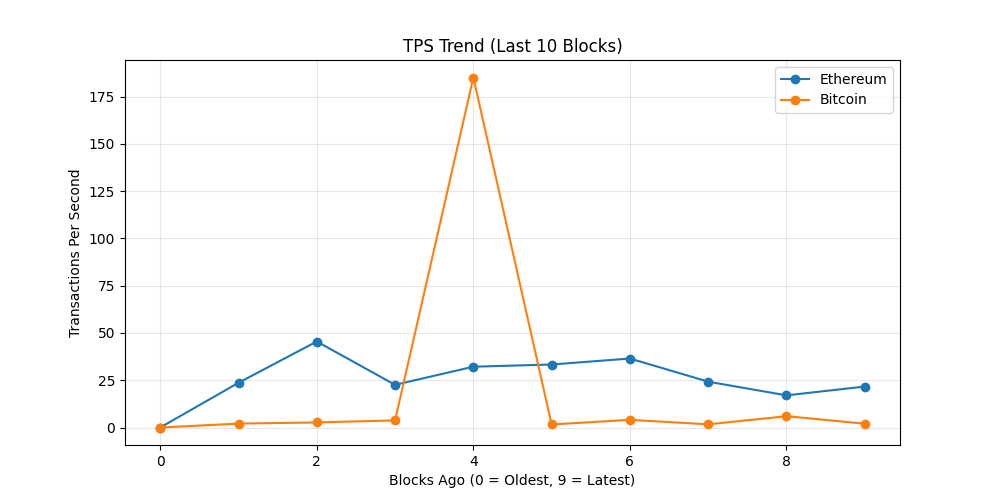
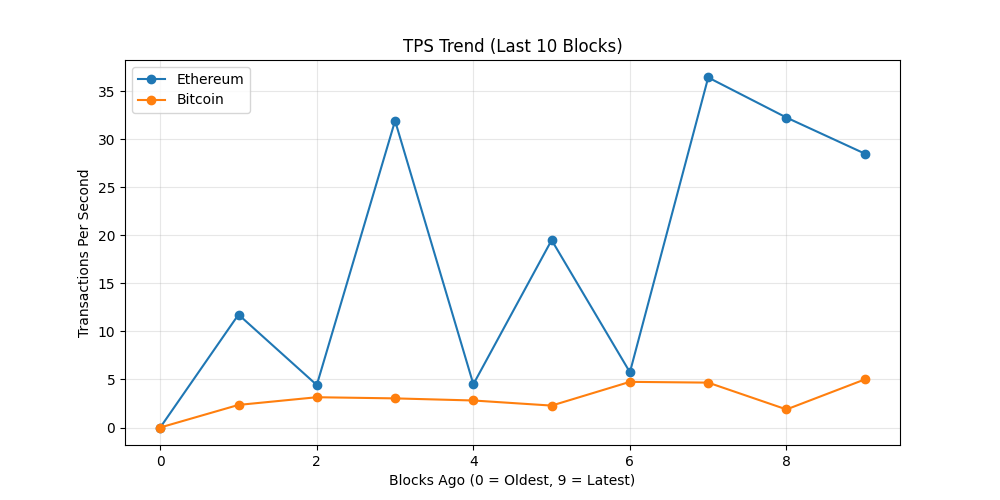
chore: update on-chain dashboard

diff --git a/README.md b/README.md
@@ -19,7 +19,7 @@ The README itself acts as the dashboard and is regenerated automatically on a 6 
 demonstrating a production-style, infrastructure-focused observability workflow rather
 than a traditional UI-driven approach.
 
-_Last updated: 2026-03-10 07:08 UTC_
+_Last updated: 2026-03-10 13:37 UTC_
 
 ## API Usage (GetBlock.io)
 - Calls used: **24**
@@ -27,8 +27,8 @@ _Last updated: 2026-03-10 07:08 UTC_
 ## Network Metrics
 | Chain | Block Height | TX Count | TPS (10 blk avg) | Block Util | Avg Fee |
 |------|-------------|----------|------------------|------------|---------|
-| Ethereum | 24625476 | 260 | 21.67 | 50.89% | 0.0 Gwei |
-| Bitcoin | 940076 | 2910 | 2.02 | 99.8% | N/A |
+| Ethereum | 24627410 | 342 | 28.5 | 76.06% | 0.1 Gwei |
+| Bitcoin | 940118 | 3002 | 5.0 | 99.8% | N/A |
 
 ## Visuals
 ### Transactions Trend
@@ -43,11 +43,11 @@ _Last updated: 2026-03-10 07:08 UTC_
 ## Whale Alerts (latest block)
 - Transaction hashes are truncated for readability.
 - Full hashes are available in `dashboards/metrics.json`
-- Bitcoin | 246.6 BTC | `d021ce068f48…`
-- Bitcoin | 406.15 BTC | `86a5639519cd…`
-- Bitcoin | 110.66 BTC | `ecbe869448e1…`
-- Bitcoin | 406.13 BTC | `2003dc94ef21…`
-- Bitcoin | 1236.8 BTC | `c8fded65e8f5…`
+- Bitcoin | 166.0 BTC | `7b578ff95e64…`
+- Bitcoin | 197.55 BTC | `c418848dcf62…`
+- Bitcoin | 175.24 BTC | `ebcca7a60221…`
+- Bitcoin | 159.4 BTC | `a190dcb516c0…`
+- Bitcoin | 201.64 BTC | `549da7776826…`
 
 ## Run locally
 
